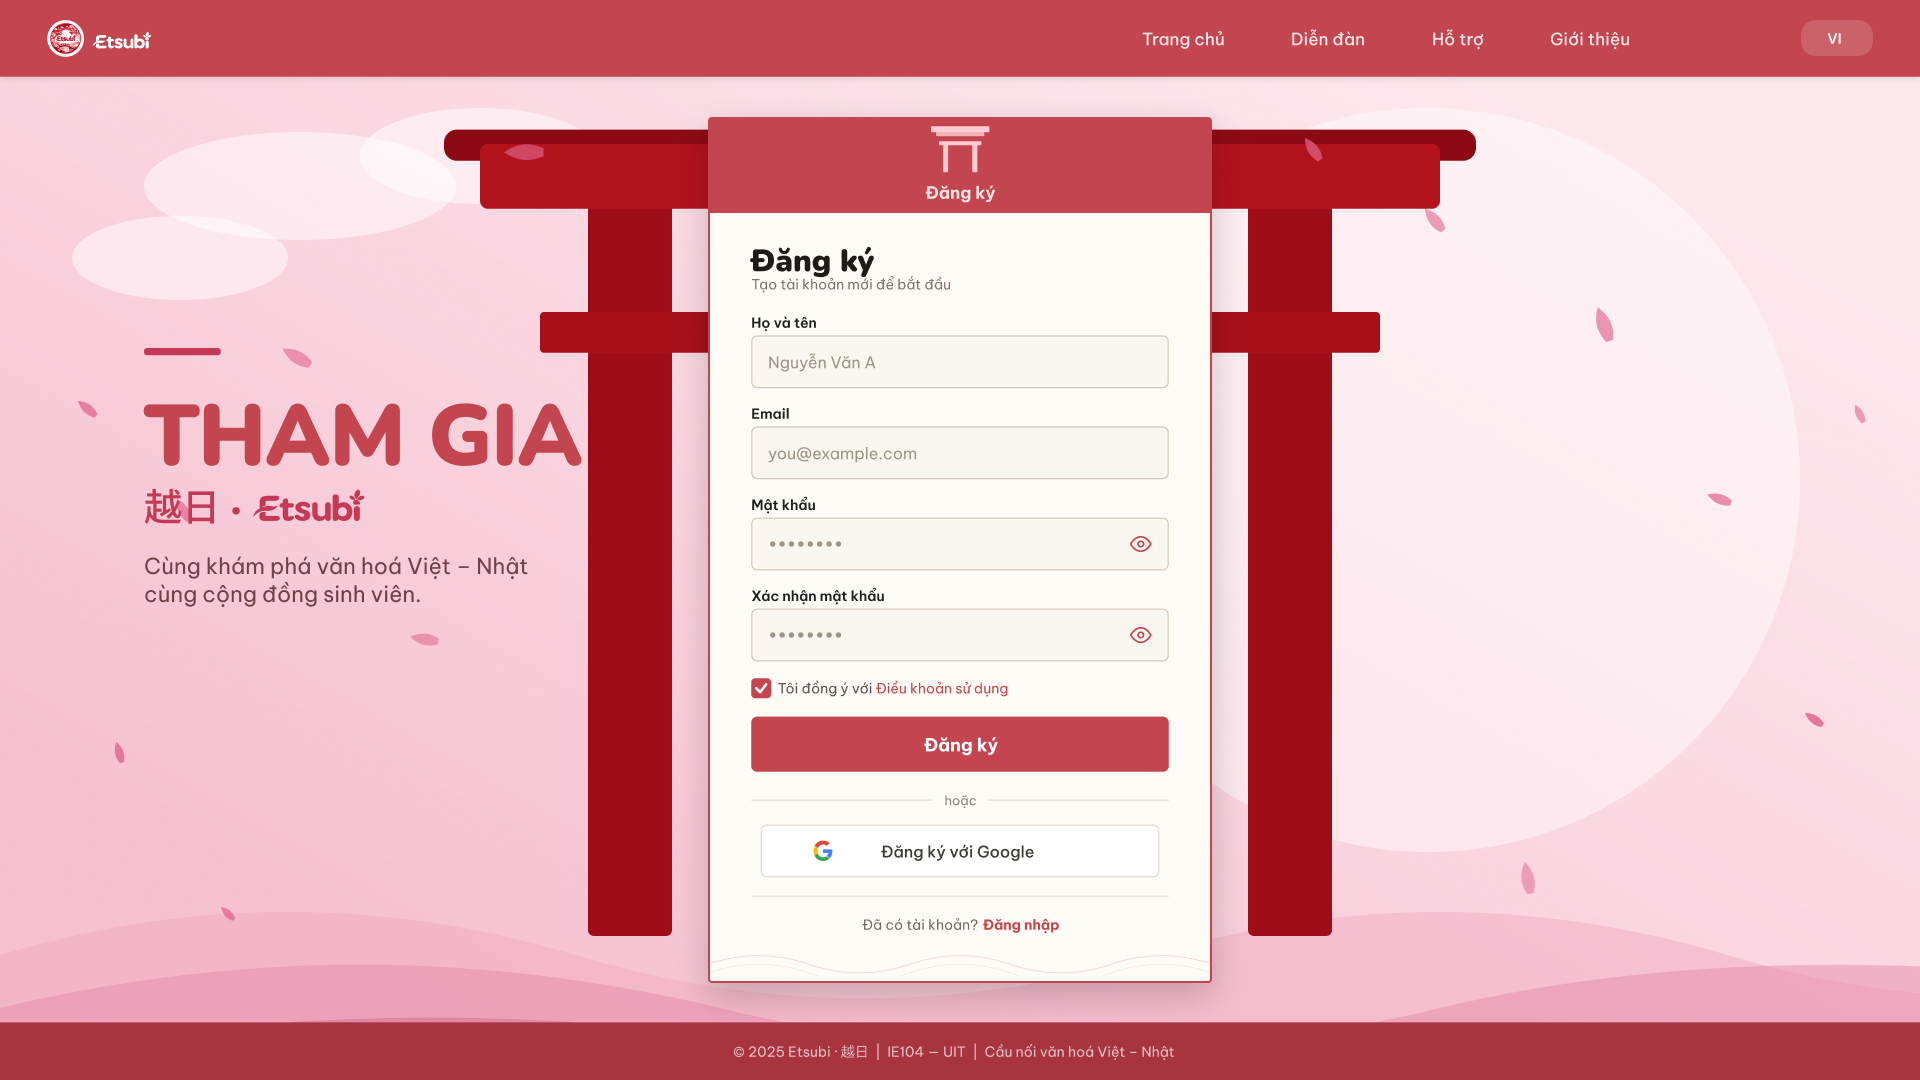
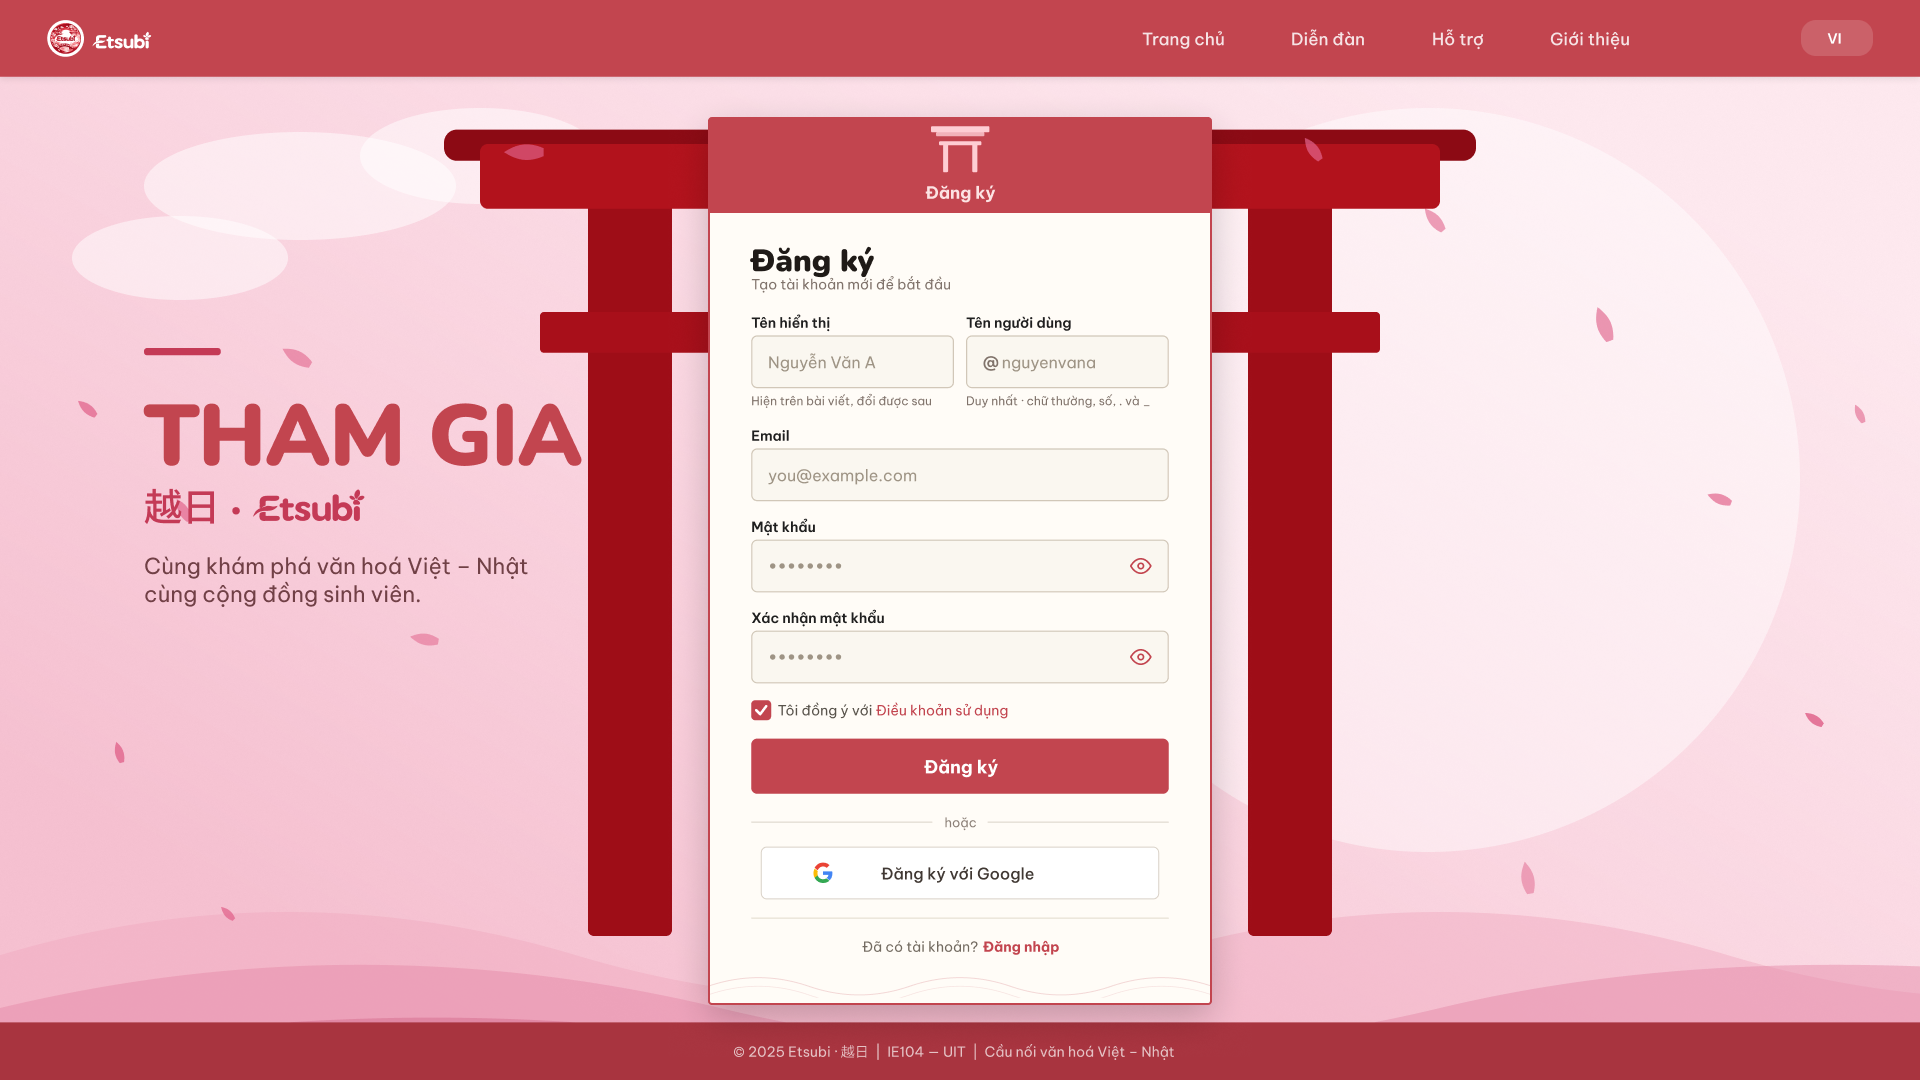
docs: record batch 7 (displayname, @handle, local DB patch) and seed handles

Changed region(s): [[0.375, 0.3667, 0.625, 0.9472], [0.5, 0.275, 0.5625, 0.3056], [0.375, 0.275, 0.4375, 0.3056]]

diff --git a/HANDOFF.md b/HANDOFF.md
@@ -42,6 +42,7 @@ Last update: 2026-11-14 · branch `feat/fe-admin` (stacked, last two: `feat/fe-p
 | **Cài đặt: no "‹ Về trang hồ sơ", no divider above the save bar** (user request 2026-11-16, Figma `323:2611` updated) – Huỷ/Lưu aligned right, 40px below Đổi mật khẩu like the other section gaps | `pages/settings.*`, `styles/pages/settings.css` | `323:2611` |
 | **Batch 6: Cài đặt saves per section** (Figma `323:2611` 1920×2493, `SectionSaveBar` `354:2961`, dialog `354:2972`) – Ảnh đại diện, Thông tin tài khoản, Ngôn ngữ mẹ đẻ and Đổi mật khẩu each compare against their own saved snapshot and show their own save bar only when different (typing back the old value hides it). Huỷ restores that section only; Lưu sends only that section (`PATCH /my` with its own fields, or `PATCH /my/password` with the existing re-login), validates only that section, shows "Đang lưu mục này…" with both buttons locked, then updates the snapshot, "Đã lưu lần cuối", header and summary card and announces "Đã lưu mục “…”." in an aria-live region; errors stay inside the section. Saves are queued so a password change and a profile save never race on the token. The left nav shows a red 8px dot + hidden text "có thay đổi chưa lưu" for dirty sections. The old shared save bar is gone | `pages/settings.*`, `styles/pages/settings.css`, `tokens.css` | `323:2611`, `354:2961`, `354:2972` |
 | **Batch 6: leave guard** – while any section is dirty: same-origin link clicks (header, avatar menu, breadcrumb, "Xem hồ sơ công khai", footer…) open the "Bạn có thay đổi chưa lưu" dialog naming the dirty sections (focus on "Ở lại trang"; Esc/× stay; "Rời trang, bỏ thay đổi" continues); in-page `#section-…` anchors, Ctrl/Cmd/Shift/Alt/middle clicks, `target`/`download` links are not intercepted; Đăng xuất in the avatar menu asks through `utils/leave-guard.js` (`registerLeaveGuard()` in the page, `confirmLeave()` in the header, so the header never imports a page module); closing the tab, reloading or typing a URL uses `beforeunload` only when dirty | `utils/leave-guard.js`, `components/header/header.js`, `pages/settings.js`, test `frontend/dev/tests/leave-guard.mjs` | `354:2972` |
+| **Batch 7: Tên hiển thị + @tên người dùng** (upstream 65c7acd) – Register (256:2425): "Tên hiển thị" + "Tên người dùng" with a fixed "@" prefix in one row (stacked on mobile); the handle is lower-cased and spaces removed while typing, validated `^[a-z0-9._]{3,30}$`; 409 → message on the right field. Register Advanced (159:524) and Cài đặt (323:2611): Tên hiển thị + Tên người dùng row, Email + Trường, Nơi ở full width; summaries show both. Everywhere a person is shown (post cards, reading page, comments, profile, avatar menu "Minh Anh / @minhanh / email"), the name is `displayname` and the second line `@username` | `utils/username.js`, `pages/profile/register.*`, `register-advanced.*`, `pages/settings.*`, `services/api/posts.js` (`getAuthorDisplayName`, `getAuthorHandle`), `components/*`, tests `username.mjs`, `profile-identity.mjs` | 256:2425, 159:524 (372:3046), 323:2611 (375:3046) |
 | Demo data script | `frontend/dev/seed-demo.sh` | – |
 | Figma reference renders | `design-ref/*.png` | – |
 
@@ -284,6 +285,10 @@ Contract test (no dependencies): `node frontend/dev/tests/auth-foundation.mjs`.
   - Checked by the user on 2026-11-16: the real browser `beforeunload` prompt appears when reloading with an unsaved section ("Reload site? Changes you made may not be saved."), and Reload discards the edits; a real middle click on a link opens a new tab with no dialog; the 54px save-bar buttons (project default vs 52px in Figma) are accepted.
   - Local DB note: `lanhuong@demo.etsubi.vn` is now an admin in the local DB (the user tests moderation with it).
 
+- **Batch 7 (2026-11-16):** merged `upstream/main` fafe280 (PR #63, no conflicts).
+  - **Local DB patched by hand again** (PR #63 edited the old users migration): after checking there were no duplicate usernames (also case-insensitive), in one transaction: `ADD COLUMN displayname TEXT`, `UPDATE … SET displayname = username`, `SET NOT NULL`, `password DROP NOT NULL` (`users_username_key` already existed). Then, approved by the user, handles by email: `minhanh`, `kenji.tanaka`, `lanhuong` (displayname "Lan Hương"), `qa.dangky`, `shirotrang` (vunhan443@gmail.com), `vunhan` (vunhangaming@gmail.com). `frontend/dev/seed-demo.sh` now registers handles + displayname. Team members with an old volume need the same patch.
+  - Checked with the real API at 1920 and 375: Register card at y 117, 504×888 like Figma (fixed: height token 866 → 888, +2px top padding, +8px offset like Login); fields within 2px. Duplicate `@minhanh` → error on the username field, one request only. New account `@qa.batch7` (qa-batch7@demo.etsubi.vn / etsubi-demo-123, then renamed to `@qabatch7b` in Cài đặt) registered and reached Register Advanced; its displayname became the handle (back-end gap). Register Advanced rows matched Figma after fixing the row rhythm (row gap 20, hint 15px). Cài đặt: displayname save shows "Máy chủ chưa lưu được tên hiển thị.", username change saved, duplicate handle error inline. Home cards, reading page, comments, profile and avatar menu show displayname + @handle. 22-page sweep (1920/375, signed in): no h-scroll, no JS errors, no failed requests. All 5 node tests pass.
+
 ## 5. Yêu cầu cho backend (requests for the back-end dev)
 
 The back end will be adjusted to the front end. Every agent adds a row here when a screen needs data the API does not return yet. Status: `cần làm` → `đã có` once the back end ships it.
@@ -299,7 +304,7 @@ The back end will be adjusted to the front end. Every agent adds a row here when
 | Home / Diễn đàn tab Đang theo dõi | `GET /my/following/posts` (JWT) | Shipped, but **always returns 404 "UUID parsing failed: found `p`"**: `GET /my/following/{user_id}` is registered first and captures "posts". Register `/my/following/posts` before the parameterised route (or rename it). Also add `limit`/`offset`. Fixed in upstream 8fee464 (route moved before `/my/following/{user_id}`), merged here; flag `followingFeed: true` since batch 4. Paging still missing (see the feeds row) | đã có |
 | Home bookmark icon | `GET /posts` for signed-in viewer | `is_bookmarked: boolean` per post, read by `getBookmarkState(post)` behind `bookmarkState`; do not add a request per post. Existing POST/DELETE /posts/{id}/bookmark are already used for real saves | cần làm |
 | Home feed translation | `GET /posts?lang=vi` | translated `title`/`content`, `original_language`, `is_translated`; `listPosts({lang})` behind `autoTranslateFeed`. Until supported, show source language and link to post detail with `&translate=1` | cần làm |
-| Home author name and handle | users and embedded `author` in `GET /posts` | `display_name` (Họ và tên) separate from unique `username` (@handle); `getAuthorDisplayName(author)` behind `userHandle`. Today both labels use the real username, so post cards show "@Vũ Thiện Nhân" (a full name with spaces after @). TODO 2026-11-16: the user will discuss with the back-end dev adding a separate unique username (@handle) next to the full name; until that is decided, do not change the card | đang bàn với BE |
+| Home author name and handle | users and embedded `author` in `GET /posts` | Done in batch 7 (upstream 65c7acd): `username` is the unique @handle, `displayname` is the editable full name; `getAuthorDisplayName()` shows `displayname` (falls back to `username`), `getAuthorHandle()` shows `@username`. Embedding `author` in `GET /posts`/comments is still wanted to cut requests (first row) | đã có |
 | Header bell | `GET /my/notifications/unread-count` and the notification list | wired: red dot, panel and mobile page use the real API | đã có |
 | Login "Quên mật khẩu?" | new password-reset endpoints | request reset by email, set new password with a token | cần làm |
 | Register Advanced avatar | new upload endpoint | upload an image, return a URL for `avatar_url` (today: preset path or small data URL) | cần làm |
@@ -322,10 +327,13 @@ The back end will be adjusted to the front end. Every agent adds a row here when
 | Home / Diễn đàn feeds | `GET /posts/newest`, `/posts/popular`, `/posts/qa`, `/my/following/posts` | embedded `author`, `tags`, counts like the first row | cần làm |
 | Home: endpoint riêng có limit | new Home-only route(s) for "Bài viết mới" (Mới nhất, Phổ biến, Đang theo dõi with JWT, Hỏi đáp) that accept `limit` (Home shows 3) | front end calls them only through `listHomeFeed()` / `HOME_FEED_ENDPOINTS` in `services/api/posts.js` (`// CẦN BACKEND:` there); until then Home slices to `HOME_LATEST_LIMIT = 3` | BE đang làm |
 | Diễn đàn tabs Phổ biến / Hỏi đáp / Đang theo dõi | `GET /posts/popular`, `/posts/qa`, `/my/following/posts` | return the full list again (remove the temporary `truncate(3)` from PR #61) once Home has its own endpoint; no paging needed (agreed with the back-end dev 2026-11-16) | chờ BE |
-| Tên người dùng không còn duy nhất | `POST /auth/register`, `PATCH /my` | PR #62 removed `UNIQUE` from `users.username` in the old migration, but `auth/service.rs` and `user/service.rs` still check `find_by_username` and return `409 Username already taken`; remove both checks for the change to take effect, and ship it as a new migration (`DROP CONSTRAINT users_username_key`) so existing databases follow. Also decide whether a separate unique `@handle` is still wanted (see the "Home author name and handle" row) | cần làm |
+| Tên người dùng không còn duy nhất | `POST /auth/register`, `PATCH /my` | Superseded by upstream 65c7acd: `username` is UNIQUE again and acts as the @handle; the full name moved to `displayname`. Nothing left to do here | đã đóng |
 | Cài đặt "Đã lưu lần cuối" | `GET /my` | `updated_at` (today the pill shows the time of the last save made in this browser, or "–") | cần làm |
 | Đọc bài (signed in) | `GET /posts/{id}/reactions/me` | return `200` with `null` (or `{ emoji: null }`) when the viewer has not reacted; today it returns `404`, which shows as a failed request in the console on every post the viewer has not liked. Fixed upstream in 8fee464 (`200 null`), merged here in batch 4 | đã có |
 | Login / Register "… với Google" | Google OAuth, e.g. `GET /auth/google` (redirect to Google) + callback that returns `{ user_id, token }` like `POST /auth/login` (and creates the account on first sign-in) | today the button only shows "sắp có" and sends no request (`// CẦN BACKEND:` in `login.js` / `register.js`) | cần làm |
-| Migrations | `backend/migrations/` | change the schema with **new** migration files instead of editing old ones (PR #60 edited `2026-11-14-…_notifications` and `2026-09-23-…_reactions`), so existing databases get the change; today old volumes return 500 on `GET /my/notifications` until patched by hand (§4 batch 4) | cần làm |
+| Migrations | `backend/migrations/` | change the schema with **new** migration files instead of editing old ones (PR #60 edited `2026-11-14-…_notifications` and `2026-09-23-…_reactions`; PR #63 edited `2026-09-23-113645-0000_users` to add `displayname`, make `password` nullable and re-add `UNIQUE (username)`), so existing databases get the change; today old volumes return 500 on `GET /my/notifications` and miss `users.displayname` until patched by hand (§4 batch 4 and batch 7) | cần làm |
+| Đăng ký: tên hiển thị | `POST /auth/register` | `RegisterRequest` has `displayname`, but `auth_handler::register` does not pass `body.displayname` and the service sets `displayname = username`; read and store it. The Register page already sends `{ displayname, username, email, password, native, language }` (`// CẦN BACKEND:` in `services/api/auth.js`) | cần làm |
+| Cài đặt / Register Advanced: tên hiển thị | `PATCH /my` | `UpdateProfileRequest` has `displayname`, but `user/service.rs::update_profile` ignores it, so the name is never saved; store it. The pages send it and show "Máy chủ chưa lưu được tên hiển thị." when the returned value differs (`// CẦN BACKEND:` in `settings.js`, `register-advanced.js`) | cần làm |
+| Hồ sơ lists, comments, notifications | `GET /users/{id}/followers` etc. (`FollowUserResponse`), comments, `GET /my/notifications` | return `displayname` next to `username` (and embed `author`/`actor`), so lists show the full name instead of the @handle fallback | cần làm |
 | Search | socket transport | deferred by team, HTTP stays for now | hoãn |
 | Register | email verification | deferred by team | hoãn |

diff --git a/AGENTS.md b/AGENTS.md
@@ -321,11 +321,11 @@ Base URL: `http://localhost:11432/api/v1` (local `cargo run`) or `http://localho
 
 | Call | Body | Success | Errors |
 |---|---|---|---|
-| `POST /auth/register` | `{ username, email, password, native, language }` | `201 { user_id }` (no token) | `400` username < 3 bytes / password < 8 / bad language; `409` email or username taken |
+| `POST /auth/register` | `{ displayname, username, email, password, native, language }` (`displayname` not stored yet, HANDOFF §5) | `201 { user_id }` (no token) | `400` username < 3 bytes / password < 8 / bad language; `409` email or username taken |
 | `POST /auth/login` | `{ email, password }` (**email only**, no username login) | `200 { user_id, token }` | `401` invalid credentials; `403` banned |
 | `POST /auth/logout` 🔒 | – | `204`, bumps `token_version` (all tokens die) | `401` |
 | `GET /my` 🔒 | – | user profile | `401`, `403` banned |
-| `PATCH /my` 🔒 | any of `{ username, email, institute, address, bio, avatar_url, native, language }` | `200` updated profile | `400`, `409` |
+| `PATCH /my` 🔒 | any of `{ displayname, username, email, institute, address, bio, avatar_url, native, language }` (`displayname` not stored yet) | `200` updated profile | `400`, `409` |
 
 🔒 = `Authorization: Bearer <token>`. Write calls from a muted user return `403 "Your account is muted until …"`.
 
@@ -335,7 +335,7 @@ Flow used by the front end: Register → (auto) Login with the same email/passwo
 
 ### Users
 
-`users`: `id, username (the display name "Họ và tên"; the schema no longer has UNIQUE since PR #62, but register/update still return 409 for a taken name), email (unique), institute?, address?, native ∈ {vi, en, ja} (default vi), language ∈ {vi, en, ja} (UI language, default vi), avatar_url?, bio?, role ∈ {user, moderator, admin}, status ∈ {active, banned}, muted_until?`. `GET /users/{id}` is public. There is **no file upload endpoint**: `avatar_url` is a string (the front end stores a preset path or a small resized data URL).
+`users`: `id, username (unique @handle, e.g. `minhanh`; the front end allows `^[a-z0-9._]{3,30}$`, lower-cases and strips spaces while typing; 409 when taken), displayname (full name "Họ và tên", editable, shown everywhere a person appears; fall back to `@username` only when an API omits it), email (unique), institute?, address?, native ∈ {vi, en, ja} (default vi), language ∈ {vi, en, ja} (UI language, default vi), avatar_url?, bio?, role ∈ {user, moderator, admin}, status ∈ {active, banned}, muted_until?`. `GET /users/{id}` is public. There is **no file upload endpoint**: `avatar_url` is a string (the front end stores a preset path or a small resized data URL).
 
 ### Search
 
